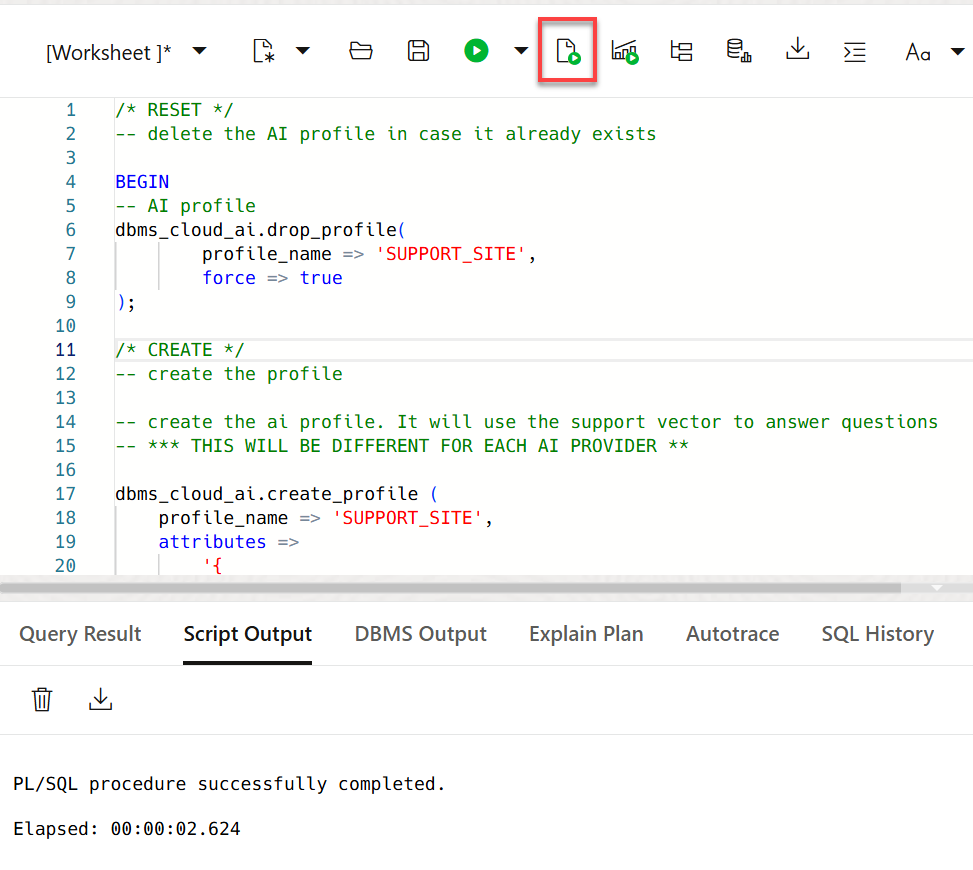
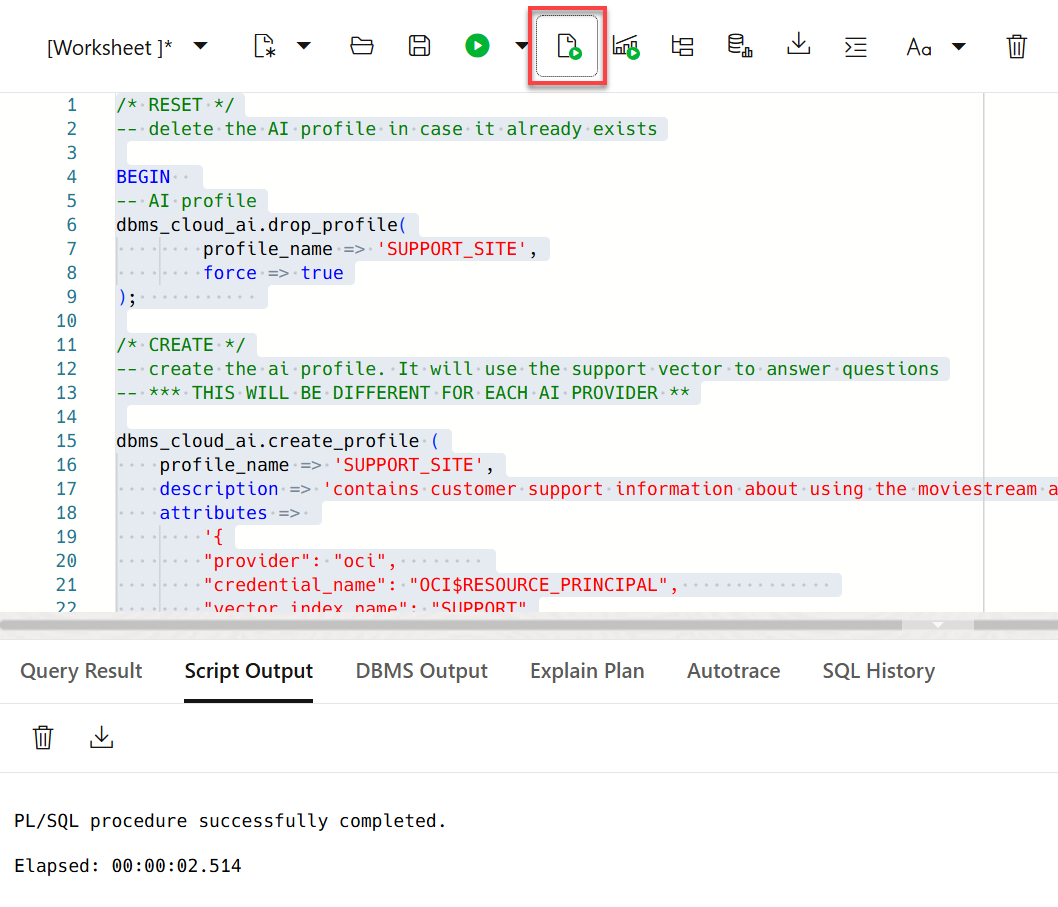
changes

diff --git a/shared/develop-rag-apps/integrate-genai/integrate-genai.md b/shared/develop-rag-apps/integrate-genai/integrate-genai.md
@@ -174,6 +174,7 @@ For additional information, see the following documentation resources:
 
     dbms_cloud_ai.create_profile (
         profile_name => 'SUPPORT_SITE',
+        description => 'contains customer support information about using the moviestream application, including managing the account, playback, network and device compatibility issues',
         attributes => 
             '{
             "provider": "oci",        
@@ -229,8 +230,10 @@ You will also need the Azure OpenAI deployment name. In that same portal page, n
     ```sql
     <copy>
     BEGIN
-  dbms_cloud_ai.create_profile (
+
+    dbms_cloud_ai.create_profile (
       profile_name => 'SUPPORT_SITE',
+      description => 'contains customer support information about using the moviestream application, including managing the account, playback, network and device compatibility issues',
       attributes => 
         '{
           "provider": "azure",        
@@ -293,8 +296,9 @@ You will need a [Google AI Studio account](https://ai.google.dev) and [an API ke
         -- Create an AI profile that uses the default Gemini model
     BEGIN
     dbms_cloud_ai.create_profile (
-      profile_name => 'SUPPORT_SITE',
-      attributes => 
+    profile_name => 'SUPPORT_SITE',
+        description => 'contains customer support information about using the moviestream application, including managing the account, playback, network and device compatibility issues',
+        attributes => 
         '{
           "provider": "google",
           "credential_name": "gemini_credential",
